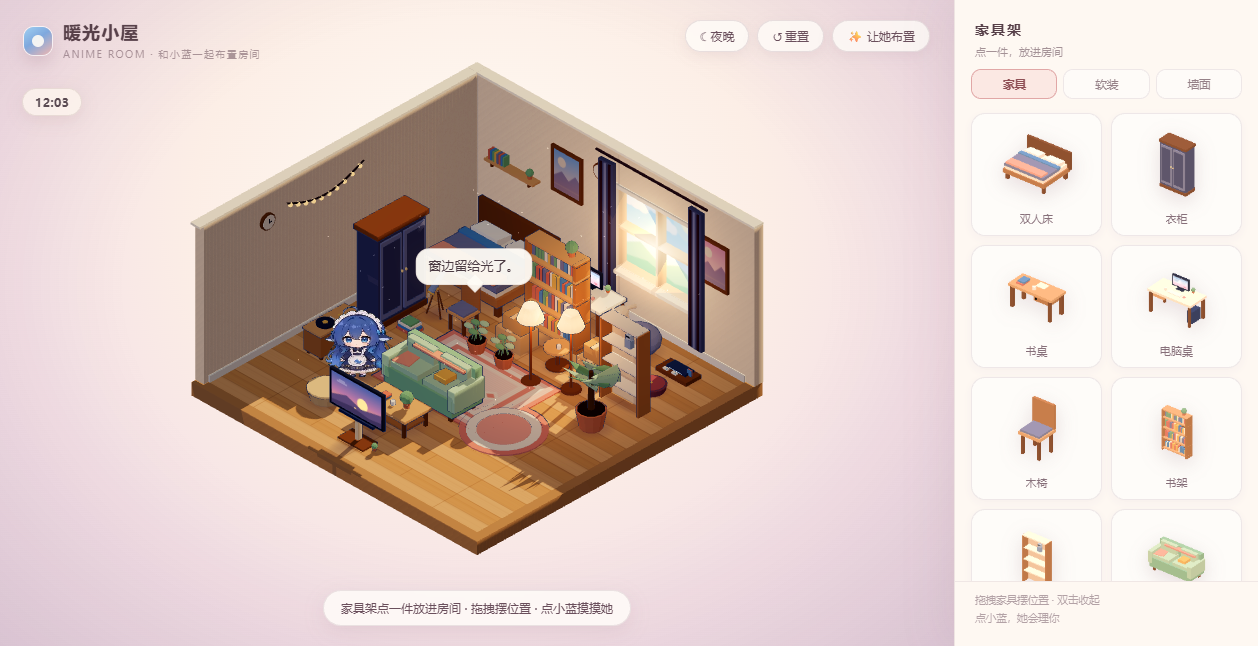
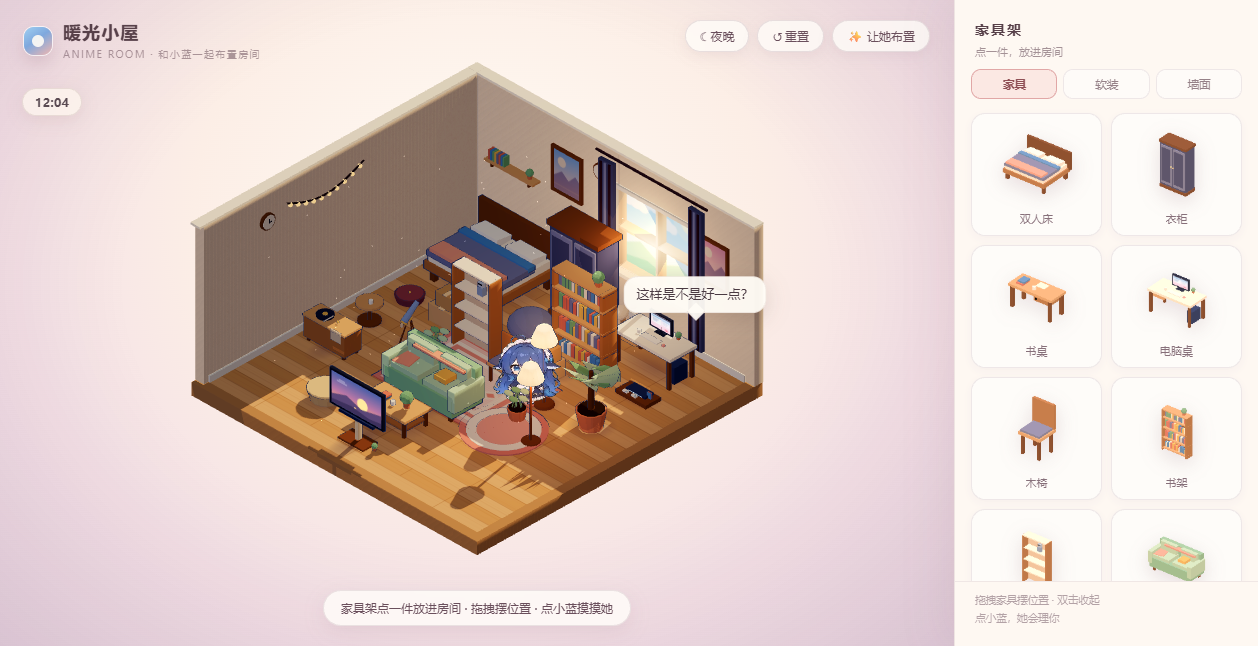
feat: 让她布置改为模型摆（读自我 + 校验），本地分区兜底

Changed region(s): [[0.217, 0.3096, 0.62, 0.805], [0.217, 0.5882, 0.248, 0.6502]]

diff --git a/dsh-cozy-room/lib/index.js b/dsh-cozy-room/lib/index.js
@@ -201,6 +201,73 @@ async function chatReply(ctx, body) {
   return { ok: true, text: text.slice(0, 120) };
 }
 
+
+async function arrangeRoom(ctx, body) {
+  const llm = ctx.llm;
+  const sel = ctx.agentDefaultModel && ctx.agentDefaultModel.currentSelection ? ctx.agentDefaultModel.currentSelection() : null;
+  if (!llm || typeof llm.stream !== 'function' || !sel || !sel.provider || !sel.model) {
+    return { ok: false, reason: 'llm-missing' };
+  }
+  const items = Array.isArray(body.items) ? body.items.slice(0, 60) : [];
+  if (!items.length) return { ok: false, reason: 'no-items' };
+  const self = readSelfText().slice(0, 1800);
+  const lines = items.map((i) => '- id=' + i.id + ' 名称=' + i.name + ' 宽=' + i.w + ' 深=' + i.d + (i.flat ? ' 平铺' : ''));
+  const system = [
+    '你在布置一个 8×8 的等距小房间。x 向右 0–8，z 向下 0–8；北墙 z=0，西墙 x=0，东墙 x=8（有窗），南墙 z=8。',
+    '规则：',
+    '- 大件靠墙：床靠北墙或西墙；衣柜、书架靠墙；书桌、电脑桌靠东墙窗边；电视靠南墙，沙发面向电视。',
+    '- 中间留出走道，不要堆满；小件（植物、灯、地毯）点缀。',
+    '- 同类的放一起：睡眠区、工作区、休闲区。',
+    '- 按她的喜好微调（见她的自我）。',
+    '只输出 JSON 数组，不要解释、不要代码块：',
+    '[{"id":"...","x":3.2,"z":1.1,"rot":0}]',
+    'rot 只能是 0、1.5708、3.1416、-1.5708。',
+  ].join('\n');
+  const user = '房间尺寸 8×8。\n家具：\n' + lines.join('\n') + '\n\n她的自我：\n' + (self || '（还没有）');
+  const ac = new AbortController();
+  const timer = setTimeout(() => ac.abort(), 30000);
+  const out = [];
+  try {
+    for await (const chunk of llm.stream({
+      provider: sel.provider,
+      model: sel.model,
+      sessionId: 'dsh-cozy-room:arrange',
+      system,
+      messages: [{ role: 'user', content: [{ type: 'text', text: user }], source: { kind: 'user' } }],
+      temperature: 0.8,
+      reasoningEffort: 'off',
+      signal: ac.signal,
+    })) streamText(chunk, out);
+  } catch (error) {
+    return { ok: false, reason: String(error && error.message) };
+  } finally {
+    clearTimeout(timer);
+  }
+  const raw = out.join('').trim();
+  const m = raw.match(/\[[\s\S]*\]/);
+  if (!m) return { ok: false, reason: 'no-json' };
+  let arr;
+  try { arr = JSON.parse(m[0]); } catch (e) { return { ok: false, reason: 'bad-json' }; }
+  if (!Array.isArray(arr)) return { ok: false, reason: 'not-array' };
+  const rots = [0, 1.5708, 3.1416, -1.5708];
+  const byId = {};
+  for (const it of items) byId[it.id] = it;
+  const placements = [];
+  for (const p of arr) {
+    const it = p && byId[p.id];
+    if (!it) continue;
+    let x = Number(p.x), z = Number(p.z);
+    if (!isFinite(x) || !isFinite(z)) continue;
+    const w = Number(it.w) || 0.6, d = Number(it.d) || 0.6;
+    x = Math.max(w / 2 + 0.16, Math.min(8 - w / 2 - 0.16, x));
+    z = Math.max(d / 2 + 0.16, Math.min(8 - d / 2 - 0.16, z));
+    let rot = rots.reduce((a, b) => (Math.abs(b - Number(p.rot)) < Math.abs(a - Number(p.rot)) ? b : a), 0);
+    placements.push({ id: it.id, x: Math.round(x * 100) / 100, z: Math.round(z * 100) / 100, rot });
+  }
+  if (!placements.length) return { ok: false, reason: 'empty-placement' };
+  return { ok: true, placements };
+}
+
 async function reflectSelf(ctx, body) {
   const llm = ctx.llm;
   const sel = ctx.agentDefaultModel && ctx.agentDefaultModel.currentSelection ? ctx.agentDefaultModel.currentSelection() : null;
@@ -431,6 +498,25 @@ export function apply(ctx) {
           if (res.writableEnded || res.headersSent) return;
           res.writeHead(200, { ...cors, 'Content-Type': 'application/json; charset=utf-8' });
           res.end(JSON.stringify({ ok: true, added, total: readMemories().length }));
+        });
+        return;
+      }
+
+      if (file === '/arrange' && req.method === 'POST') {
+        let raw = '';
+        req.on('data', (c) => { raw += c; if (raw.length > 200000) req.destroy(); });
+        req.on('end', () => {
+          let body = {};
+          try { body = JSON.parse(raw || '{}'); } catch (e) {}
+          arrangeRoom(ctx, body).then((result) => {
+            if (res.writableEnded || res.headersSent) return;
+            res.writeHead(result.ok ? 200 : 502, { ...cors, 'Content-Type': 'application/json; charset=utf-8' });
+            res.end(JSON.stringify(result));
+          }).catch((error) => {
+            if (res.writableEnded || res.headersSent) return;
+            res.writeHead(500, { ...cors, 'Content-Type': 'application/json; charset=utf-8' });
+            res.end(JSON.stringify({ ok: false, reason: String(error && error.message) }));
+          });
         });
         return;
       }

diff --git a/anime-room/js/app.js b/anime-room/js/app.js
@@ -2140,6 +2140,41 @@
   function autoArrange() {
     var movable = state.items.filter(function (it) { return !it.wall; });
     if (!movable.length) return false;
+    var payload = movable.map(function (it) {
+      return { id: it.uid, name: it.def.name, w: it.def.w, d: it.def.d, flat: !!it.def.flat };
+    });
+    toast('她想一想怎么摆…');
+    var ctrl = typeof AbortController !== 'undefined' ? new AbortController() : null;
+    var timer = ctrl ? setTimeout(function () { ctrl.abort(); }, 30000) : null;
+    fetch('/arrange', {
+      method: 'POST',
+      headers: { 'Content-Type': 'application/json' },
+      body: JSON.stringify({ items: payload }),
+      signal: ctrl ? ctrl.signal : undefined,
+    }).then(function (r) { return r.json(); }).then(function (j) {
+      if (!j || !j.ok || !Array.isArray(j.placements)) {
+        localArrange();
+        return;
+      }
+      var byId = {};
+      j.placements.forEach(function (p) { byId[p.id] = p; });
+      var moves = [];
+      movable.forEach(function (it) {
+        var p = byId[it.uid];
+        if (!p) return;
+        moves.push({ it: it, x: p.x, z: p.z, rot: p.rot, fx: it.x, fz: it.z });
+      });
+      if (!moves.length) { localArrange(); return; }
+      animateArrangement(moves);
+    }).catch(function () { localArrange(); }).finally(function () {
+      if (timer) clearTimeout(timer);
+    });
+    return true;
+  }
+
+  function localArrange() {
+    var movable = state.items.filter(function (it) { return !it.wall; });
+    if (!movable.length) return false;
     var placed = [];
     var order = movable.slice().sort(function (a, b) {
       var fa = a.def.flat ? 1 : 0, fb = b.def.flat ? 1 : 0;
@@ -2175,6 +2210,11 @@
       if (!it.def.flat) placed.push({ x: target.x, z: target.z, w: f.w, d: f.d });
       moves.push({ it: it, x: target.x, z: target.z, rot: target.rot, fx: it.x, fz: it.z });
     });
+    animateArrangement(moves);
+    return true;
+  }
+
+  function animateArrangement(moves) {
     var t0 = performance.now();
     (function step() {
       var k = Math.min(1, (performance.now() - t0) / 700);
@@ -2200,7 +2240,6 @@
       save();
       say(pickLine(['这样是不是好一点？', '我觉得这样顺眼。', '窗边留给光了。', '嗯，就这样。']), 2600);
     })();
-    return true;
   }
 
   window.__purpleRoom = {
